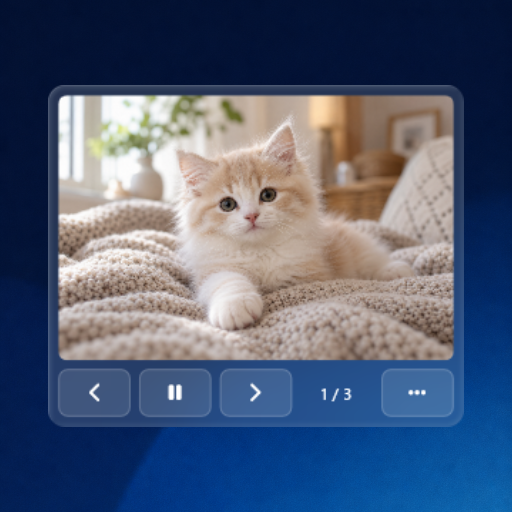
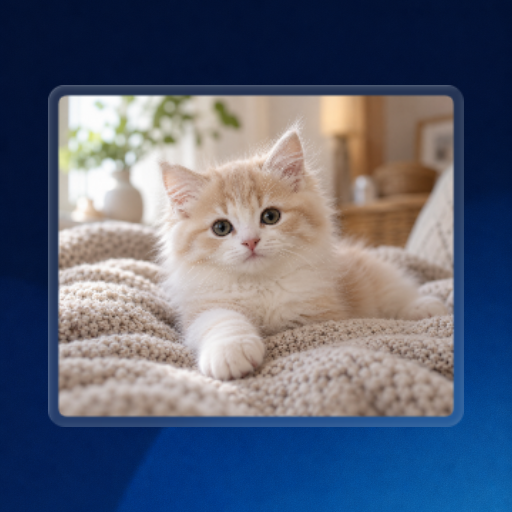
try(widget): 调整相册悬停栏与右键裁切（组件验证通过，待实机验证） / Adjust album hover controls and context cropping (widget checks passed, runtime validation pending)
中文：
- 图片底部控件改为悬停覆盖层，所有控件保留进入/离开重绘与双击绑定，显隐不调整图片布局。
- 右键裁切项复用 fill 设置与勾选状态；更新真实渲染封面和使用说明。

English:
- Overlay bottom controls only while hovered, retaining enter/leave invalidation and double-click bindings without resizing the image.
- Reuse the fill setting and checked state in the context menu; update the native-rendered catalog image and documentation.

验证 / Validation:
- .build/Release/snowwidget.exe lint and quality developer_assets/workshop_widgets/photo-album: 0 errors, 0 warnings / 0 错误、0 警告。
- .build/Release/snowwidget.exe test developer_assets/workshop_widgets/photo-album: 24/24 passed / 24/24 通过。
- .codex-probes/album_overlay_preview.py: 8 native renderer previews inspected; production entry/menu/event and typed storage assertions passed with substituted hover state / 8 张原生渲染预览已目检，替换悬停状态的生产入口、菜单、事件和存储断言通过。
- Native cover preview with the standard community background inspected / 标准社区背景的原生封面预览已目检。

限制 / Limitations:
- Pure component update; no host build/full suite run. Development synchronization will follow the additional panel changes / 纯组件更新，未运行宿主构建和完整测试；开发同步将在后续弹窗调整后完成。
- Desktop hover, context menu and pointer behavior await user validation; isolated preview does not exercise native desktop input / 桌面悬停、右键和指针行为待用户实机验证；隔离预览不执行原生桌面输入。

diff --git a/developer_assets/workshop_widgets/photo-album/README.md b/developer_assets/workshop_widgets/photo-album/README.md
@@ -11,7 +11,8 @@
 - 按来源顺序播放，文件夹内按文件名排序，仅当前层；通过“刷新”重新扫描。
 - 支持单张静态照片、手动上一张/下一张、暂停、3–300 秒间隔和随机播放。手动前后翻页保持当前播放状态，双击累计两张，手动方向不受随机播放影响。
 - 右键“从相册移除此照片”移除打开菜单时的照片，保留原文件；绑定模式用排除记录避免刷新后重现。
-- “照片”列表可选择某一张并暂停；关闭“裁切填充相框”可完整显示图片。
+- “照片”列表可选择某一张并暂停；右键或轮播设置中的“裁切填充相框”共用同一开关，关闭后完整显示图片。
+- 翻页、播放/暂停、计数和管理按钮悬停时叠在图片底部，移开后隐藏；显隐不改变图片尺寸或轮播进度，单张照片保留计数与管理按钮。
 - 最多 128 个来源、10000 张照片；每个目录最多 10000 个条目。超限或读取失败会提示。
 - 支持 JPG/JPEG、PNG、BMP、GIF、TIFF；WebP 依赖 Windows 解码器。只播放静态首帧。
 - 来源存储为实例专属的授权句柄。只请求读取权限，不修改、复制或删除原图。
@@ -49,7 +50,10 @@ Right-click removes the photo shown when the
 menu opened from the album only; bound sources remember exclusions. Manual next/previous preserves
 autoplay and double-clicks accumulate two directional steps. Reorder or remove sources,
 browse the expanded photo list, pause on one photo, choose a 3–300 second interval, shuffle,
-or switch between cover and contain. Folders include direct children only; refresh rescans them.
+or switch between cover and contain from the context menu or the same setting in slideshow settings.
+Navigation, playback, count and management controls overlay the bottom of the photo only while
+hovered; showing or hiding them preserves image geometry and playback progress. Single-photo
+albums retain the count and management controls. Folders include direct children only; refresh rescans them.
 Limits: 128 sources and 10000 photos, with at most 10000 entries per folder. Animated files use
 their first frame; WebP depends on Windows codecs. Originals are never modified. Saved sources
 are opaque instance-scoped read grants. New instances start empty.
